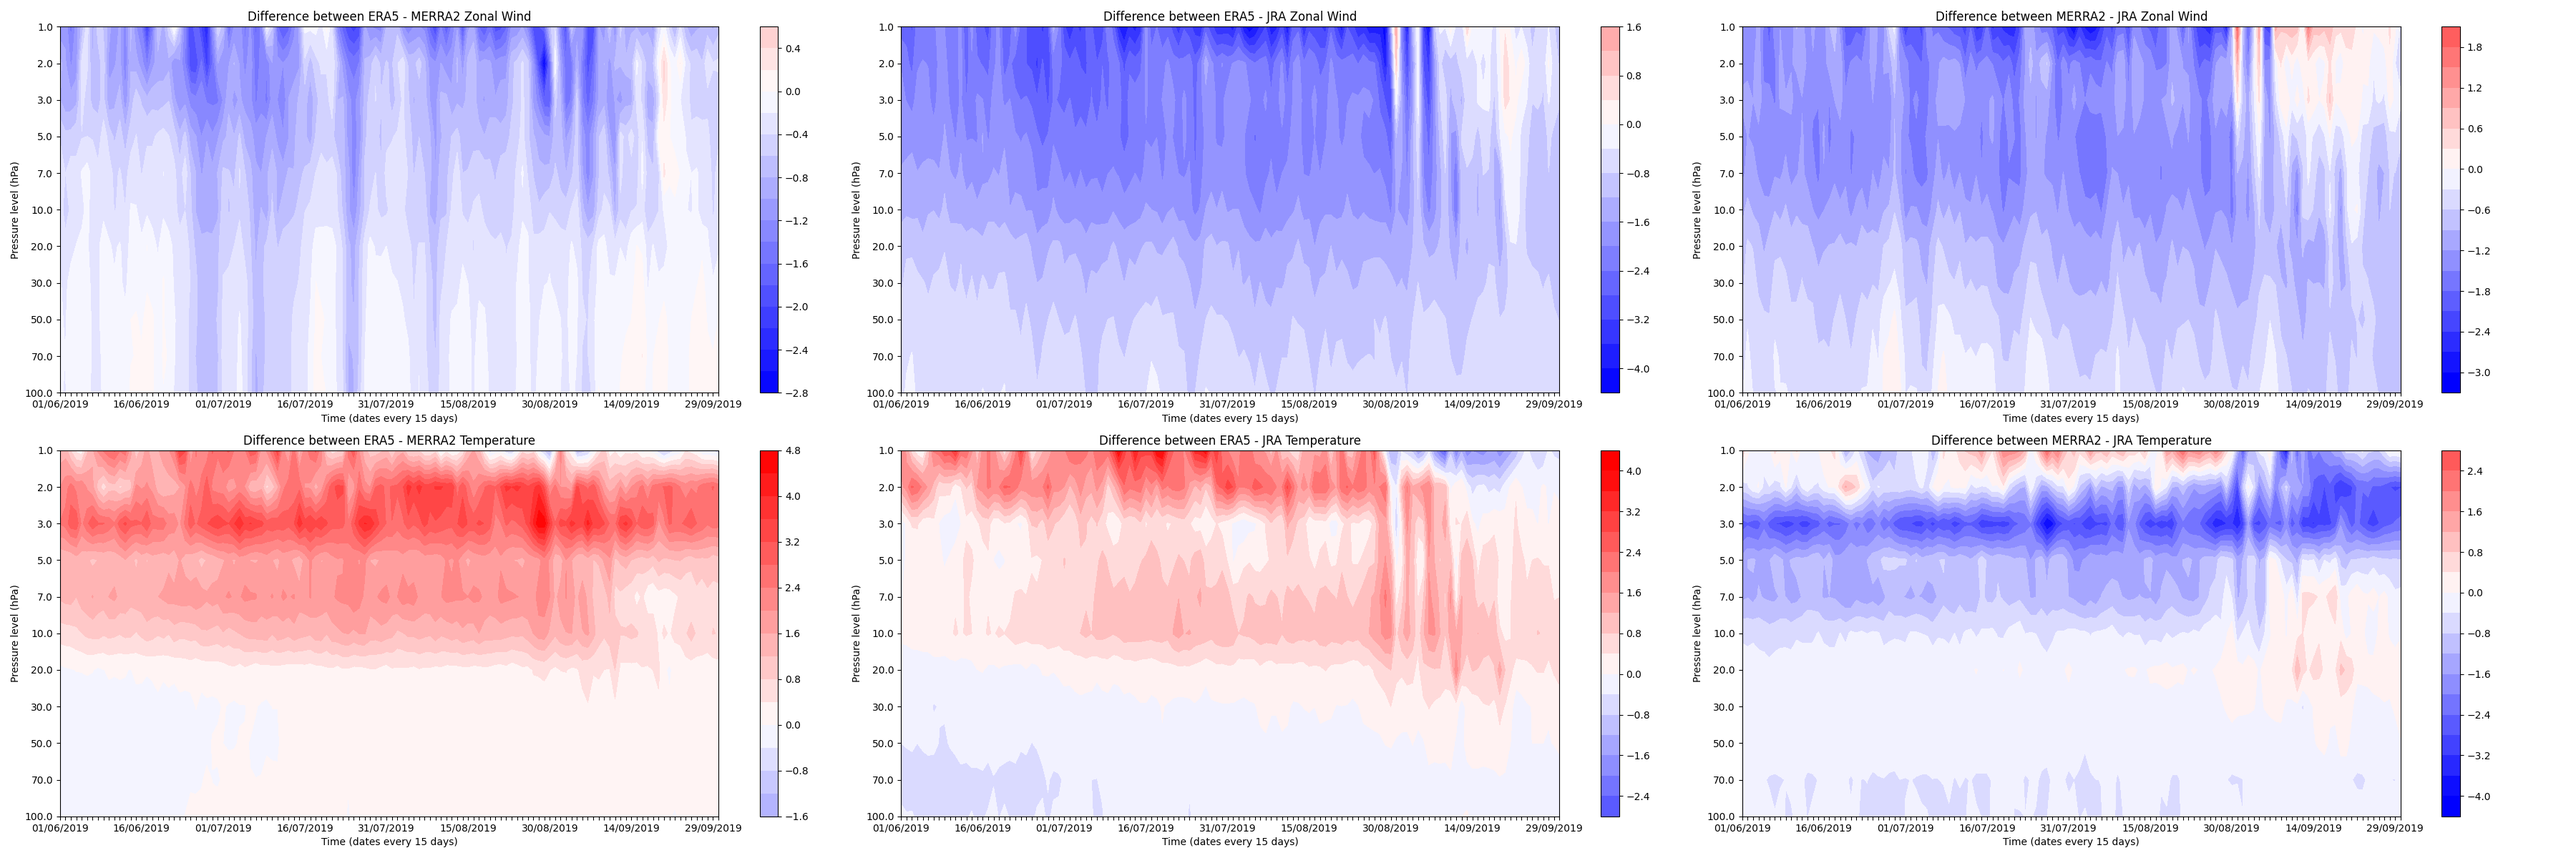
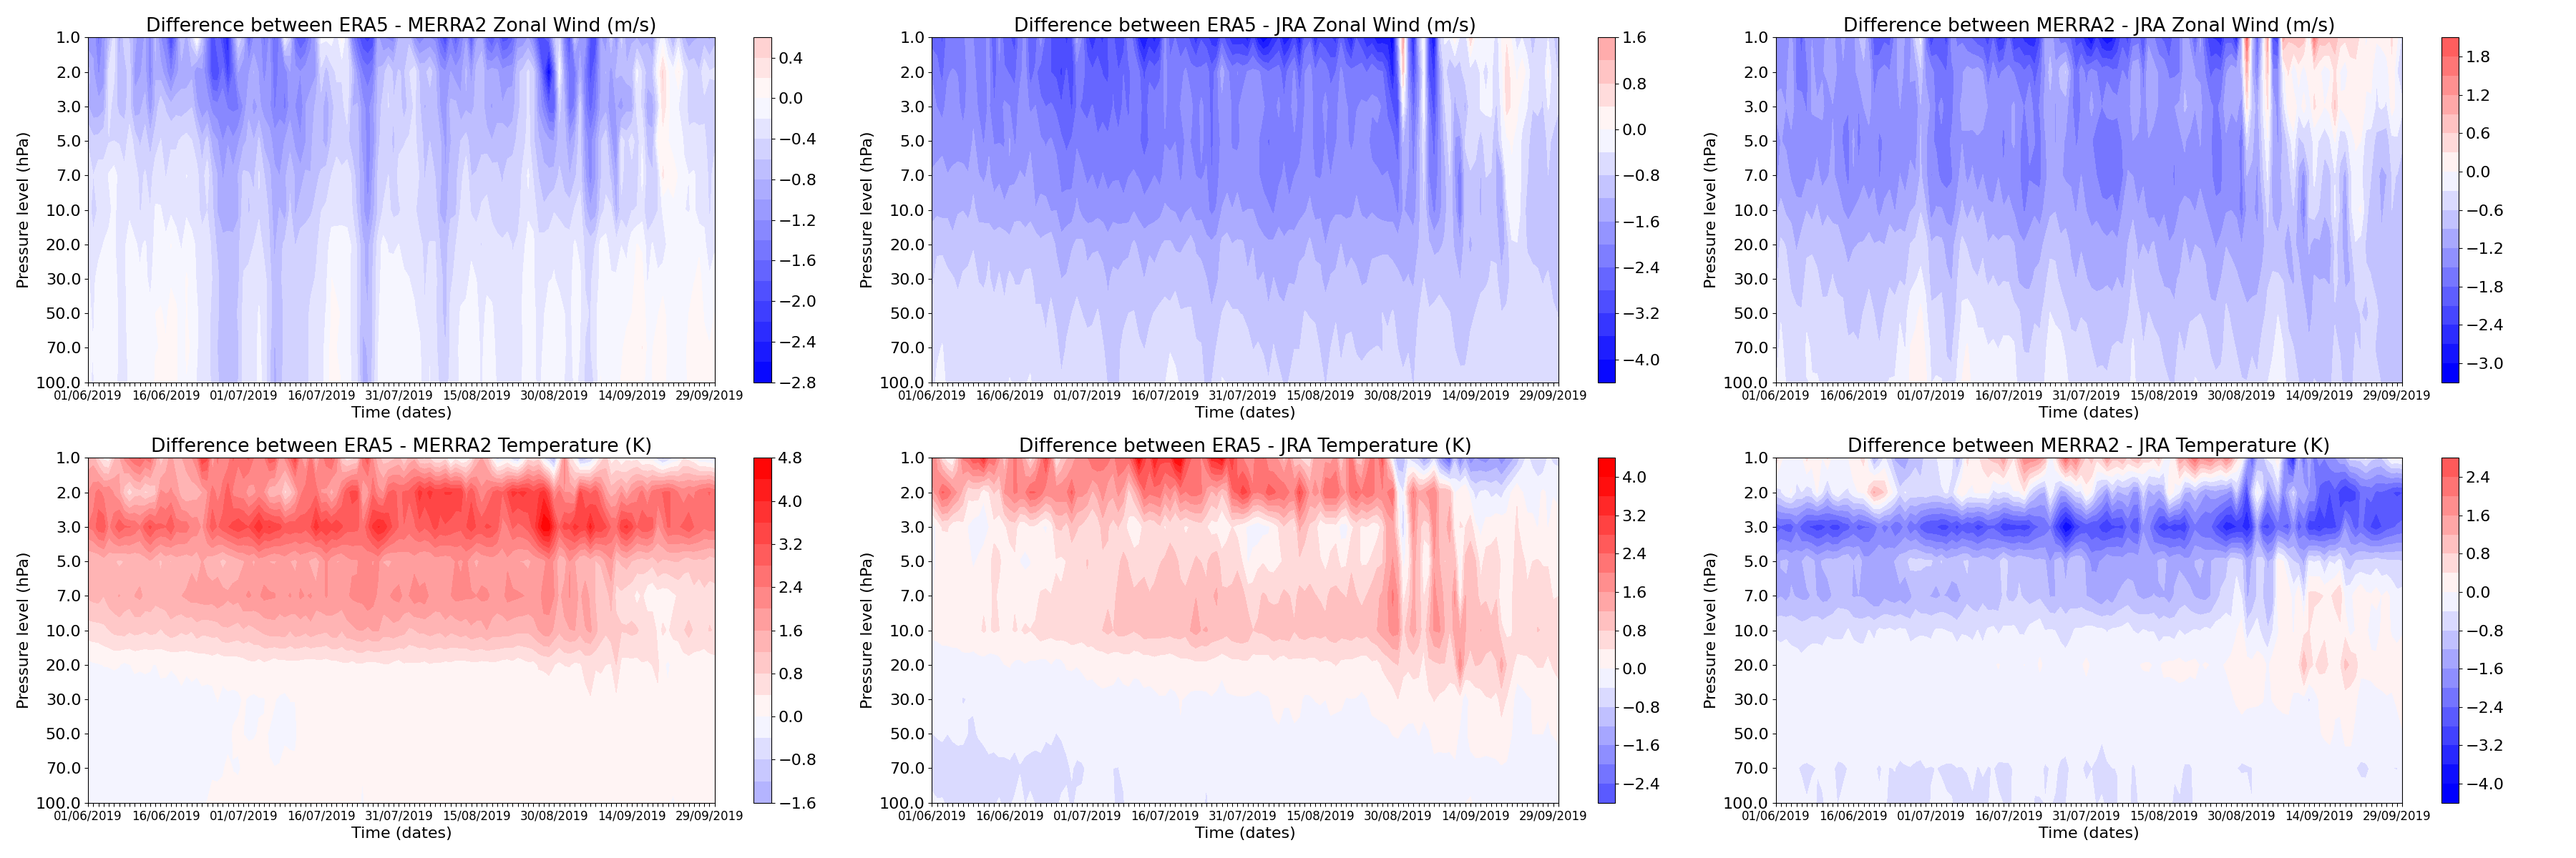
Vizuální úprava grafů
Popisy os atd.

diff --git a/graphs.py b/graphs.py
@@ -4,6 +4,8 @@ import matplotlib.pyplot as plt
 import os
 from datetime import datetime, timedelta
 
+plt.rcParams.update({'font.size': 16})
+
 while True:
     rok = int(input("2002 nebo 2019? "))
     if rok in [2002, 2019]:
@@ -78,7 +80,10 @@ def euf():
         dataset = Dataset(os.path.join(folder, f))
         var_data = dataset.variables['u'][:]
         pressure_levels = dataset.variables['pressure_level'][:]
-        time_labels, z = dates(f"01/06/{rok}", dataset, time_labels, z)
+        if rok == 2002:
+            time_labels, z = dates(f"01/08/2002", dataset, time_labels, z)
+        if rok == 2019:
+            time_labels, z = dates(f"01/06/2019", dataset, time_labels, z)
         x, data = av(var_data, data, x)
     return data, time_labels, pressure_levels
 
@@ -155,8 +160,9 @@ def vykresli(ax, data, title, xlabels, ylabels, vmin=None, vmax=None, cmap='cool
     cont = ax.contourf(np.array(data).T, cmap=cmap, levels=16, vmin=vmin, vmax=vmax)
     ax.set_title(title)
     ax.set_ylabel("Pressure level (hPa)")
-    ax.set_xlabel("Time (dates every 15 days)")
+    ax.set_xlabel("Time (dates)")
     ax.set_xticks(range(len(data)))
+    ax.tick_params(axis='x', labelsize=12)
     max_label_index = len(xlabels) * 15
     ax.set_xticks(range(min(len(data), max_label_index)))
     ax.set_xticklabels([xlabels[i // 15] if i % 15 == 0 and i // 15 < len(xlabels) else '' for i in range(min(len(data), max_label_index))])
@@ -193,12 +199,12 @@ fig, axs = plt.subplots(2, 3, figsize=(36, 12))
 axs = axs.flatten()
 
 tituly = [
-    "Zonal wind at SH from ERA5",
-    "Zonal wind at SH from MERRA2",
-    "Zonal wind at SH from JRA",
-    "Temperature at SH from ERA5",
-    "Temperature at SH from MERRA2",
-    "Temperature at SH from JRA"
+    "Zonal wind (m/s) at SH from ERA5",
+    "Zonal wind (m/s) at SH from MERRA2",
+    "Zonal wind (m/s) at SH from JRA",
+    "Temperature (K) at SH from ERA5",
+    "Temperature (K) at SH from MERRA2",
+    "Temperature (K) at SH from JRA"
 ]
 
 data_sady = [eu_arr, mu_arr, ju, et_arr, mt_arr, jt]
@@ -207,6 +213,7 @@ vmax_sady = [vmax_wind]*3 + [vmax_temp]*3
 
 for ax, title, data, vmin_, vmax_ in zip(axs, tituly, data_sady, vmin_sady, vmax_sady):
     cbar = vykresli(ax, data, title, ti, p, vmin=vmin_, vmax=vmax_)
+    cbar.set_label("Temperature (K)")
     fig.colorbar(cbar, ax=ax)
 
 plt.tight_layout()
@@ -217,12 +224,12 @@ fig_all_diff, axs_all = plt.subplots(2, 3, figsize=(36, 12))
 axs_all = axs_all.flatten()
 
 tituly_diff_all = [
-    "Difference between ERA5 - MERRA2 Zonal Wind",
-    "Difference between ERA5 - JRA Zonal Wind",
-    "Difference between MERRA2 - JRA Zonal Wind",
-    "Difference between ERA5 - MERRA2 Temperature",
-    "Difference between ERA5 - JRA Temperature",
-    "Difference between MERRA2 - JRA Temperature"
+    "Difference between ERA5 - MERRA2 Zonal Wind (m/s)",
+    "Difference between ERA5 - JRA Zonal Wind (m/s)",
+    "Difference between MERRA2 - JRA Zonal Wind (m/s)",
+    "Difference between ERA5 - MERRA2 Temperature (K)",
+    "Difference between ERA5 - JRA Temperature (K)",
+    "Difference between MERRA2 - JRA Temperature (K)"
 ]
 
 data_diff_all = [eu_mu_diff, eu_ju_diff, mu_ju_diff, et_mt_diff, et_jt_diff, mt_jt_diff]
@@ -272,12 +279,12 @@ fig_detail, axs_detail = plt.subplots(2, 3, figsize=(36, 12))
 axs_detail = axs_detail.flatten()
 
 tituly_detail = [
-    "Zonal wind at SH from ERA5 (detailed 1 - 10 hPa)",
-    "Zonal wind at SH from MERRA2 (detailed 1 - 10 hPa)",
-    "Zonal wind at SH from JRA (detailed 1 - 10 hPa)",
-    "Temperature at SH from ERA5 (detailed 1 - 10 hPa)",
-    "Temperature at SH from MERRA2 (detailed 1 - 10 hPa)",
-    "Temperature at SH from JRA (detailed 1 - 10 hPa)"
+    "Zonal wind (m/s) at SH from ERA5 (detailed 1 - 10 hPa)",
+    "Zonal wind (m/s) at SH from MERRA2 (detailed 1 - 10 hPa)",
+    "Zonal wind (m/s) at SH from JRA (detailed 1 - 10 hPa)",
+    "Temperature (K) at SH from ERA5 (detailed 1 - 10 hPa)",
+    "Temperature (K) at SH from MERRA2 (detailed 1 - 10 hPa)",
+    "Temperature (K) at SH from JRA (detailed 1 - 10 hPa)"
 ]
 
 data_sady_detail = [detail_eu, detail_mu, detail_ju, detail_et, detail_mt, detail_jt]
@@ -296,12 +303,12 @@ fig_detail_diff, axs_detail_diff = plt.subplots(2, 3, figsize=(36, 12))
 axs_detail_diff = axs_detail_diff.flatten()
 
 tituly_diff_detail = [
-    "Difference between ERA5 - MERRA2 Zonal Wind (detailed 1 - 10 hPa)",
-    "Difference between ERA5 - JRA Zonal Wind (detailed 1 - 10 hPa)",
-    "Difference between MERRA2 - JRA Zonal Wind (detailed 1 - 10 hPa)",
-    "Difference between ERA5 - MERRA2 Temperature (detailed 1 - 10 hPa)",
-    "Difference between ERA5 - JRA Temperature (detailed 1 - 10 hPa)",
-    "Difference between MERRA2 - JRA Temperature (detailed 1 - 10 hPa)"
+    "Difference between ERA5 - MERRA2 Zonal Wind (m/s) (detailed 1 - 10 hPa)",
+    "Difference between ERA5 - JRA Zonal Wind (m/s) (detailed 1 - 10 hPa)",
+    "Difference between MERRA2 - JRA Zonal Wind (m/s) (detailed 1 - 10 hPa)",
+    "Difference between ERA5 - MERRA2 Temperature (K) (detailed 1 - 10 hPa)",
+    "Difference between ERA5 - JRA Temperature (K) (detailed 1 - 10 hPa)",
+    "Difference between MERRA2 - JRA Temperature (K) (detailed 1 - 10 hPa)"
 ]
 
 data_diff_detail = [detail_eu_mu_diff, detail_eu_ju_diff, detail_mu_ju_diff,
